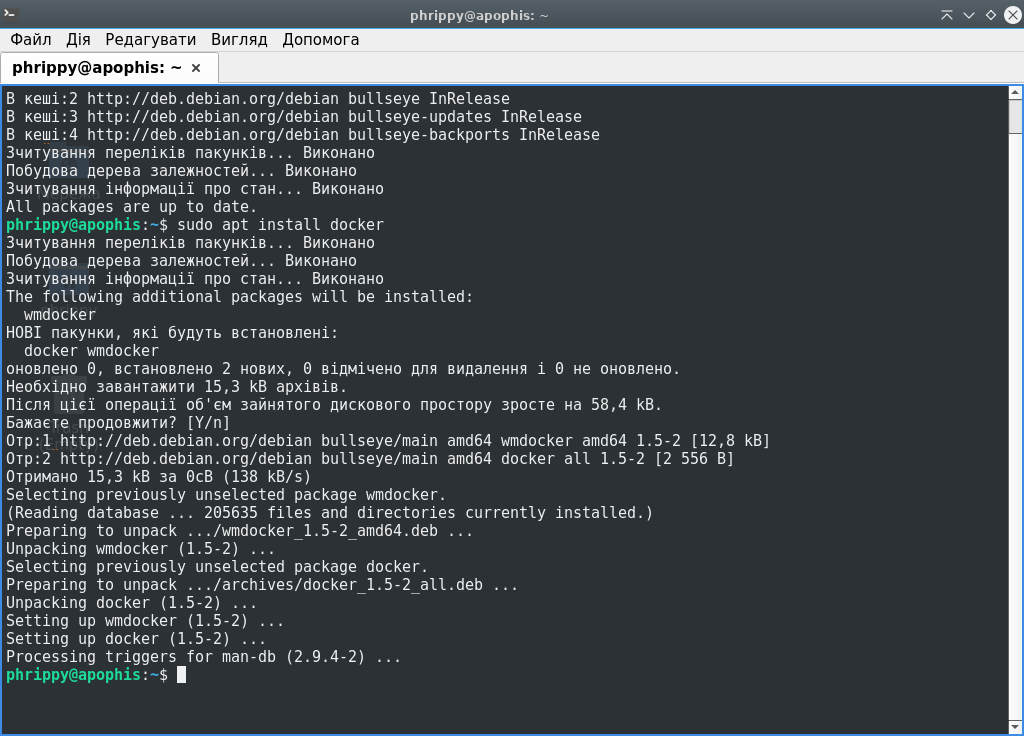
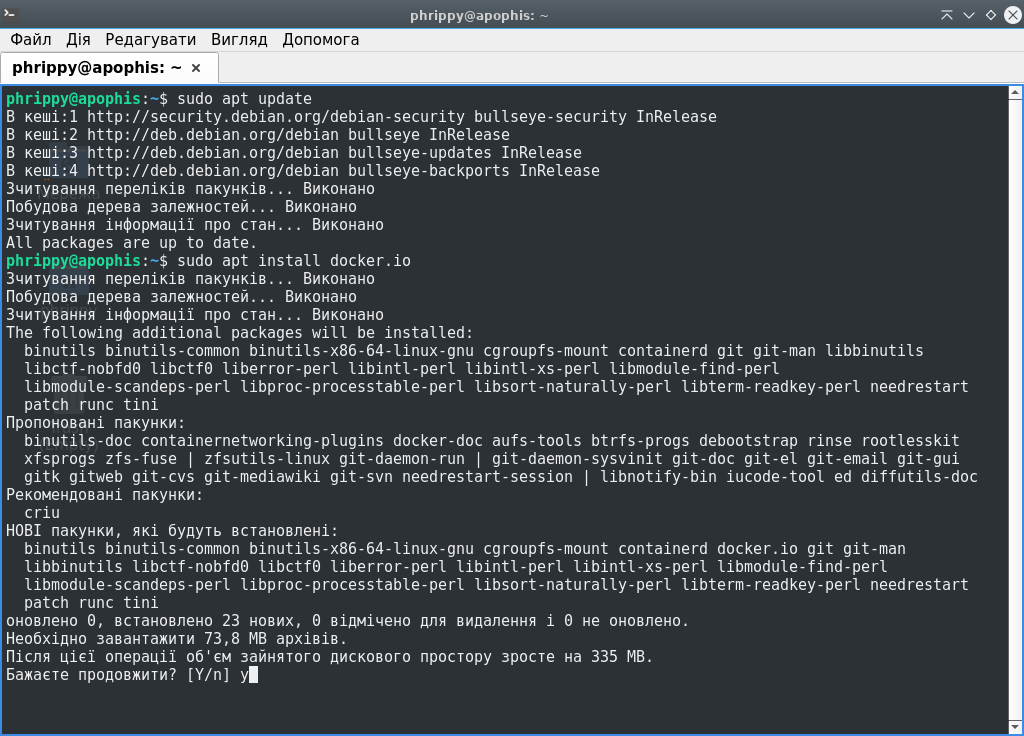
upd

Changed region(s): [[0.0, 0.125, 0.9688, 0.9375], [0.625, 0.1562, 0.6875, 0.1875]]

diff --git a/lesson24/head.md b/lesson24/head.md
@@ -7,12 +7,14 @@
 # Встановлюємо Docker:
 
 ```bash
-sudo apt install docker-io
+sudo apt install docker.io
 ```
 
-# ЗАМІНИТИ СКРІНШОТ - ВСТАНОВЛЮЄМО DOCKER-IO ЗАМІСТЬ DOCKER
-
 ![Встановлення Docker](docker_install.png)
+
+Docker успішно встановлено
+
+![Встановлення Docker](docker_install_complete.png)
 
 # Dockerfile
 

diff --git a/lesson24/lesson24.md b/lesson24/lesson24.md
@@ -7,12 +7,14 @@
 # Встановлюємо Docker:
 
 ```bash
-sudo apt install docker-io
+sudo apt install docker.io
 ```
 
-# ЗАМІНИТИ СКРІНШОТ - ВСТАНОВЛЮЄМО DOCKER-IO ЗАМІСТЬ DOCKER
-
 ![Встановлення Docker](docker_install.png)
+
+Docker успішно встановлено
+
+![Встановлення Docker](docker_install_complete.png)
 
 # Dockerfile
 
